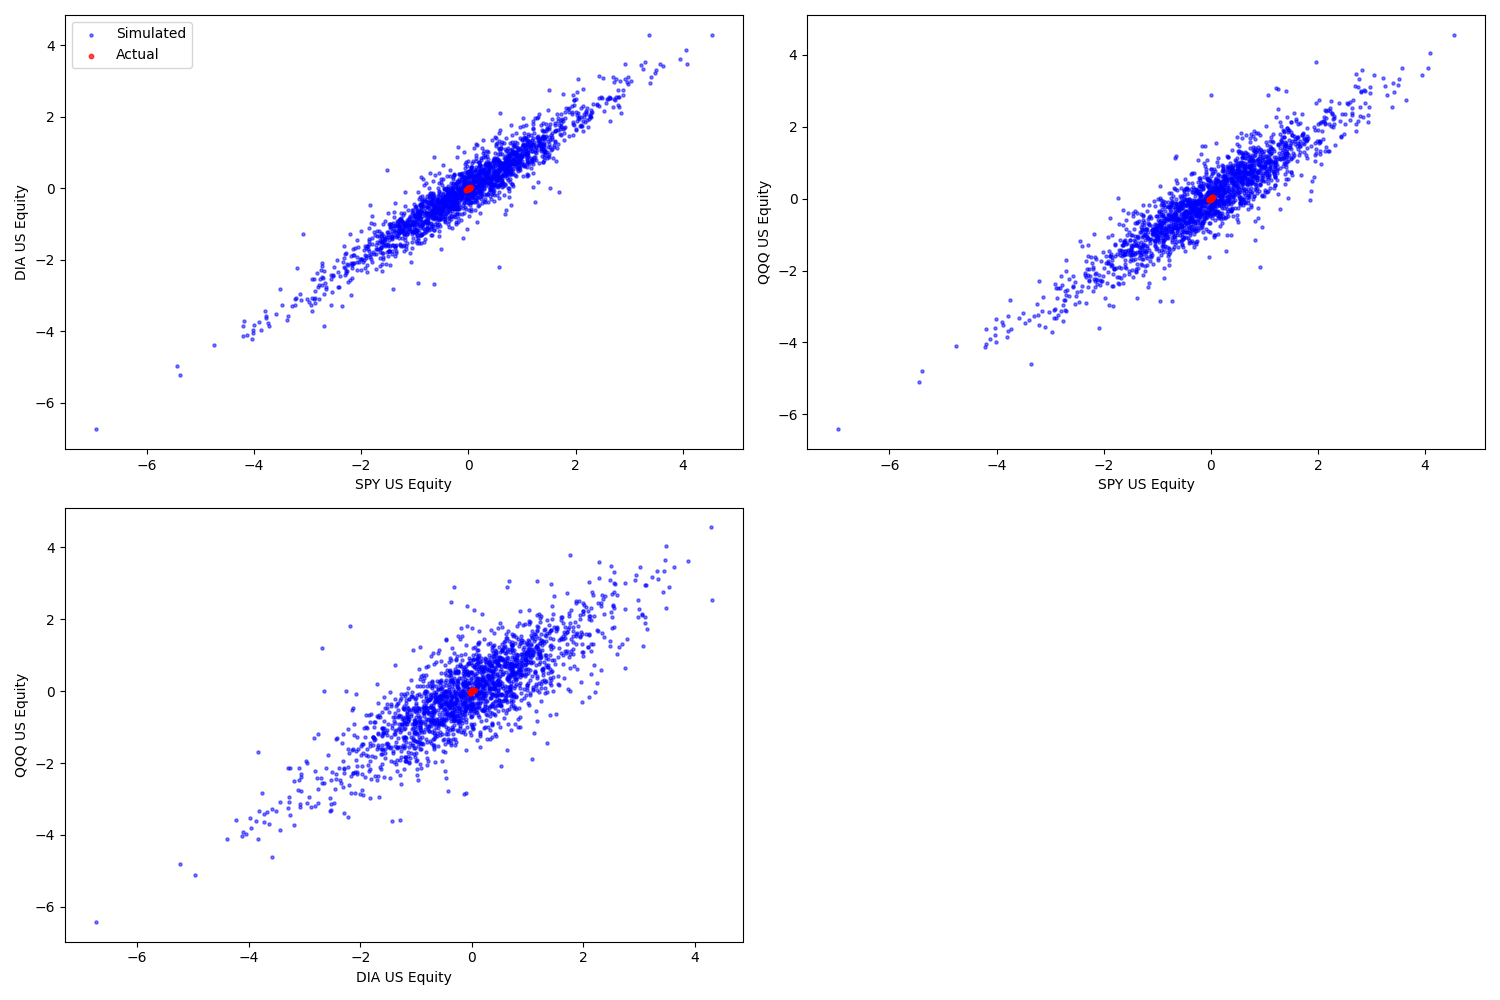
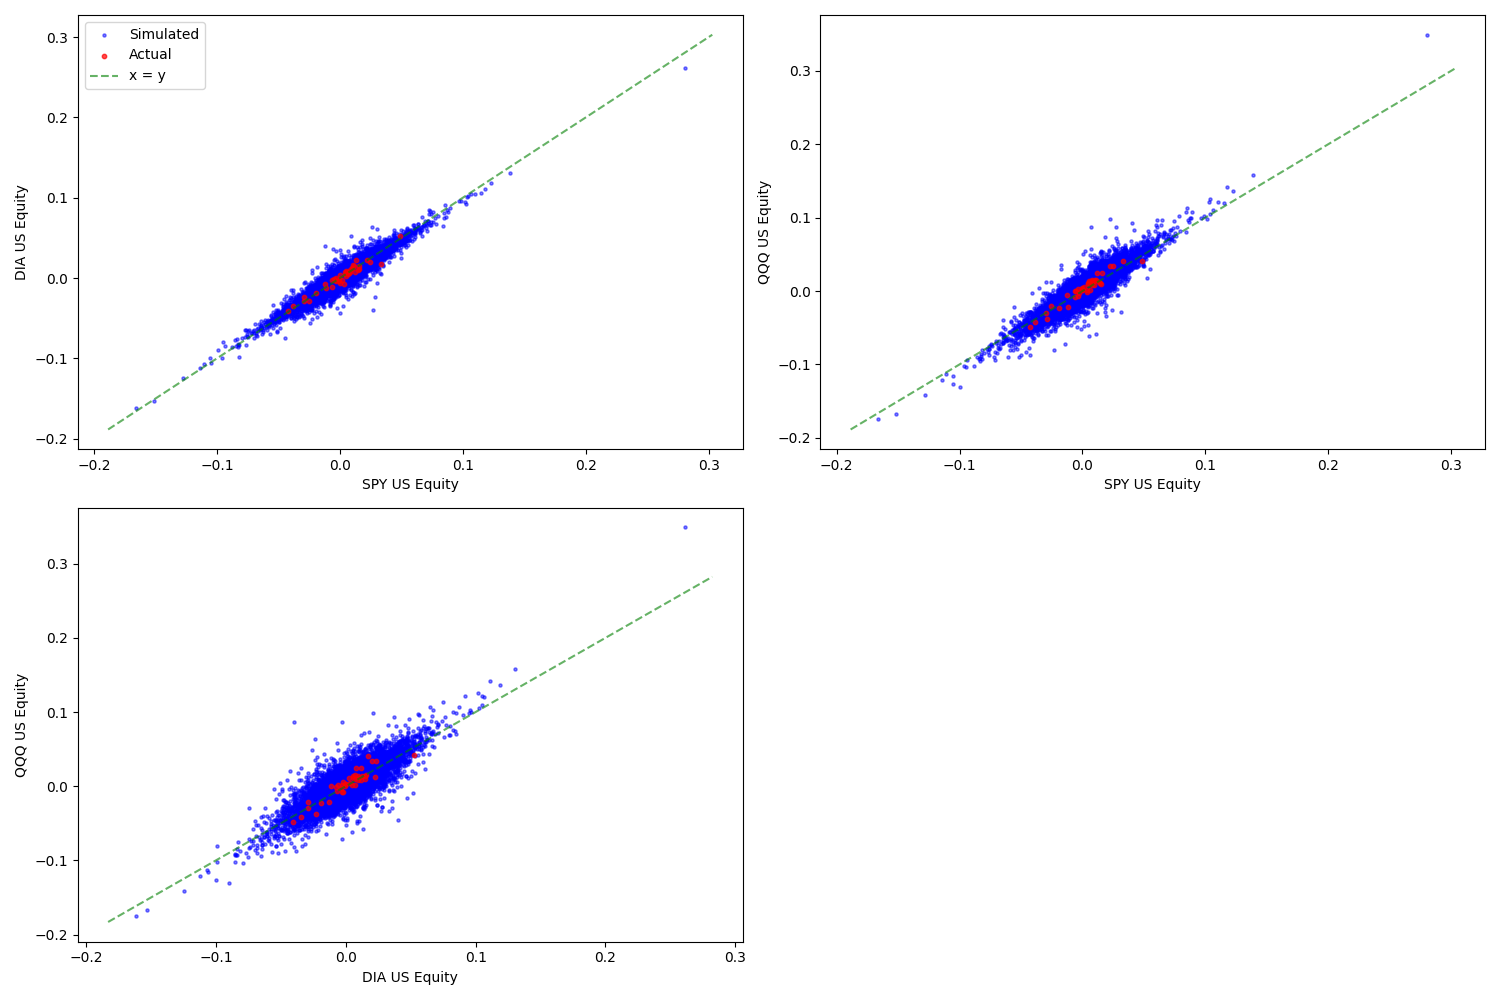
copule standardisé

diff --git a/Copula.py b/Copula.py
@@ -230,7 +230,7 @@ class SkewedTCopulaModel:
         print("\n=== Pipeline de la copule t asymétrique complète ===")
         print(f"Paramètres estimés pour {len(self.copula_params)} semaines")
     
-    def simulate_skewed_t_copula(self, date, n_samples=1000):
+    def simulate_skewed_t_copula(self, date, n_samples=1000, weekly_returns=None):
         """
         Simuler des échantillons à partir de la copule t asymétrique
         
@@ -247,6 +247,9 @@ class SkewedTCopulaModel:
         if date not in self.weekly_matrices:
             raise ValueError(f"Pas de matrice DCC disponible pour {date}")
         
+
+        np.random.seed(100)
+
         params = self.copula_params[date]
         R = self.weekly_matrices[date].values
         df = params['df']
@@ -268,8 +271,25 @@ class SkewedTCopulaModel:
         Y = np.zeros_like(U)
         for j in range(n_dim):
             Y[:, j] = SkewedTCopulaModel.skewed_t_ppf(U[:, j], df, gamma_vec[j])
+
+        simulated_data = pd.DataFrame(Y, columns=tickers)
+
+        # Calculer les statistiques des rendements historiques
+        historical_mean = weekly_returns.mean()
+        historical_std = weekly_returns.std()
         
-        return pd.DataFrame(Y, columns=tickers)
+        # Standardiser les rendements simulés
+        standardized_data = pd.DataFrame(index=simulated_data.index, columns=simulated_data.columns)
+        
+        for ticker in simulated_data.columns:
+            # Standardiser les données simulées pour qu'elles aient la même moyenne et écart-type
+            # que les données historiques (conversion en pourcentage)
+            standardized_data[ticker] = simulated_data[ticker] * historical_std[ticker] + historical_mean[ticker]
+        
+        # standardized_data * 100  # Convertir en pourcentage
+        simulated_data = standardized_data.copy()
+        
+        return simulated_data
     
     def visualize_copula(self, date, weekly_returns=None):
         """
@@ -304,9 +324,9 @@ class SkewedTCopulaModel:
         print(corr_df)
         
         # Simuler des données
-        n_samples = 2000
-        simulated_data = self.simulate_skewed_t_copula(date, n_samples=n_samples)
-        
+        n_samples = 10000
+        simulated_data = self.simulate_skewed_t_copula(date, n_samples=n_samples, weekly_returns=weekly_returns)
+
         # Créer la figure
         fig = plt.figure(figsize=(15, 10))
         
@@ -339,6 +359,7 @@ class SkewedTCopulaModel:
                     window_start = date - timedelta(weeks=26)
                     window_end = date + timedelta(weeks=26)
                     window_returns = weekly_returns.loc[window_start:window_end]
+                    print(window_returns)
                     
                     ax.scatter(
                         window_returns[viz_tickers[i]], 
@@ -351,6 +372,19 @@ class SkewedTCopulaModel:
                 
                 ax.set_xlabel(viz_tickers[i])
                 ax.set_ylabel(viz_tickers[j])
+
+                # Ajouter la droite x = y
+                # Déterminer les limites min et max pour les deux axes
+                x_data = simulated_data[viz_tickers[i]].tolist() + window_returns[viz_tickers[i]].tolist()
+                y_data = simulated_data[viz_tickers[j]].tolist() + window_returns[viz_tickers[j]].tolist()
+                min_val = min(x_data)
+                max_val = max(x_data)
+                # Tracer la droite x = y avec une petite marge
+                margin = (max_val - min_val) * 0.05
+                ax.plot([min_val - margin, max_val + margin], 
+                        [min_val - margin, max_val + margin],
+                        'g--', alpha=0.6, label='x = y' if i == 0 and j == 1 else "")
+            
                 
                 if i == 0 and j == 1:
                     ax.legend()
@@ -409,9 +443,11 @@ def main():
     # Visualiser la copule pour une date spécifique
     # Utiliser la première date disponible après l'estimation des paramètres
     if len(skewed_t_copula.copula_params) > 0:
-        selected_date = list(skewed_t_copula.copula_params.keys())[0]
-        print(f"\n=== Visualisation de la copule pour {selected_date} ===")
-        skewed_t_copula.visualize_copula(selected_date, df_out_sample_set_weekly)
+        for i in range(len(skewed_t_copula.copula_params)):
+
+            selected_date = list(skewed_t_copula.copula_params.keys())[i]
+            print(f"\n=== Visualisation de la copule pour {selected_date} ===")
+            skewed_t_copula.visualize_copula(selected_date, df_out_sample_set_weekly)
     else:
         print("Aucune date disponible pour visualiser la copule")
 
